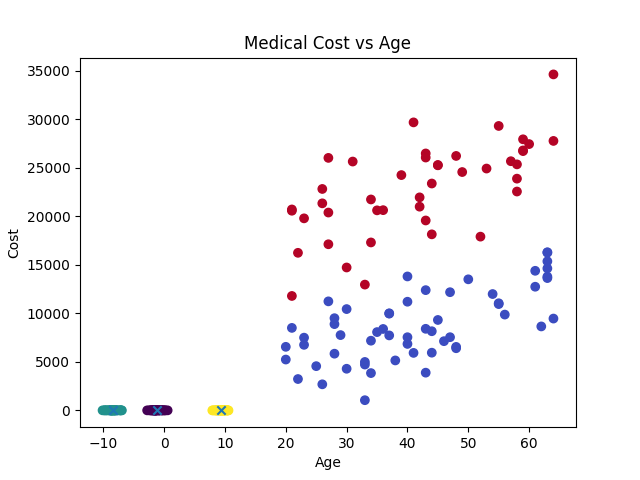
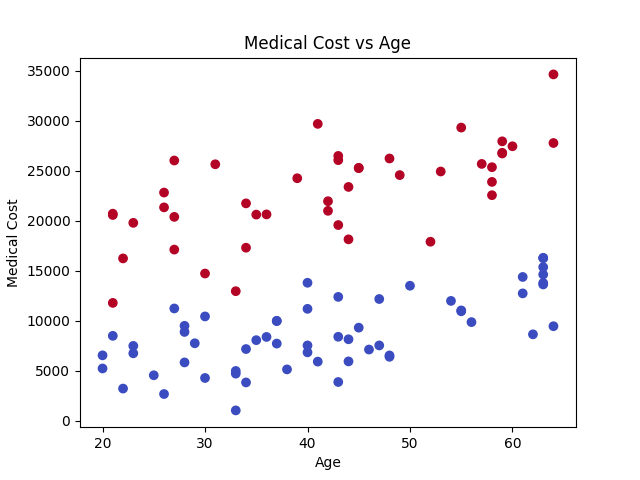
Complete assignment 02 warmup regression section

diff --git a/assignments/assignments_02/warmup_02.py b/assignments/assignments_02/warmup_02.py
@@ -69,3 +69,115 @@ plt.savefig("outputs/kmeans_clusters.png")
 # Comment:
 # KMeans groups data into clusters by finding cluster centers
 # and assigning each point to the nearest center.
+
+# --- Linear Regression ---
+# Q1
+
+import os
+from sklearn.model_selection import train_test_split
+
+os.makedirs("outputs", exist_ok=True)
+
+np.random.seed(42)
+num_patients = 100
+
+age = np.random.randint(20, 65, num_patients).astype(float)
+smoker = np.random.randint(0, 2, num_patients).astype(float)
+cost = 200 * age + 15000 * smoker + np.random.normal(0, 3000, num_patients)
+
+plt.figure()
+plt.scatter(age, cost, c=smoker, cmap="coolwarm")
+plt.title("Medical Cost vs Age")
+plt.xlabel("Age")
+plt.ylabel("Medical Cost")
+plt.savefig("outputs/cost_vs_age.png")
+
+# Comment:
+# The scatter plot shows two visible groups of patients.
+# Smokers generally have much higher medical costs than non-smokers.
+# This suggests that smoker status is an important feature for predicting cost.
+
+
+# Q2
+
+X = age.reshape(-1, 1)
+y = cost
+
+X_train, X_test, y_train, y_test = train_test_split(
+    X, y, test_size=0.2, random_state=42
+)
+
+print("\nLinear Regression Q2:")
+print("X_train shape:", X_train.shape)
+print("X_test shape:", X_test.shape)
+print("y_train shape:", y_train.shape)
+print("y_test shape:", y_test.shape)
+
+
+# Q3
+
+model_age = LinearRegression()
+model_age.fit(X_train, y_train)
+
+y_pred = model_age.predict(X_test)
+
+rmse = np.sqrt(np.mean((y_pred - y_test) ** 2))
+r2_age = model_age.score(X_test, y_test)
+
+print("\nLinear Regression Q3:")
+print("Slope:", model_age.coef_[0])
+print("Intercept:", model_age.intercept_)
+print("RMSE:", rmse)
+print("R^2:", r2_age)
+
+# Comment:
+# The slope means that for each additional year of age, the model predicts
+# medical cost will increase by about this many dollars.
+# Since this model only uses age, it misses the important difference between
+# smokers and non-smokers.
+
+
+# Q4
+
+X_full = np.column_stack([age, smoker])
+
+X_train_full, X_test_full, y_train_full, y_test_full = train_test_split(
+    X_full, y, test_size=0.2, random_state=42
+)
+
+model_full = LinearRegression()
+model_full.fit(X_train_full, y_train_full)
+
+y_pred_full = model_full.predict(X_test_full)
+r2_full = model_full.score(X_test_full, y_test_full)
+
+print("\nLinear Regression Q4:")
+print("Age-only R^2:", r2_age)
+print("Age + smoker R^2:", r2_full)
+print("age coefficient:    ", model_full.coef_[0])
+print("smoker coefficient: ", model_full.coef_[1])
+
+# Comment:
+# Adding the smoker flag helps because smoker status has a large effect on cost.
+# The smoker coefficient represents the estimated increase in annual medical cost
+# for smokers compared with non-smokers, holding age constant.
+
+
+# Q5
+
+plt.figure()
+plt.scatter(y_pred_full, y_test_full)
+plt.plot(
+    [y_test_full.min(), y_test_full.max()],
+    [y_test_full.min(), y_test_full.max()]
+)
+plt.title("Predicted vs Actual")
+plt.xlabel("Predicted Cost")
+plt.ylabel("Actual Cost")
+plt.savefig("outputs/predicted_vs_actual.png")
+
+# Comment:
+# A point above the diagonal means the actual cost was higher than predicted,
+# so the model underpredicted that patient's cost.
+# A point below the diagonal means the actual cost was lower than predicted,
+# so the model overpredicted that patient's cost.
